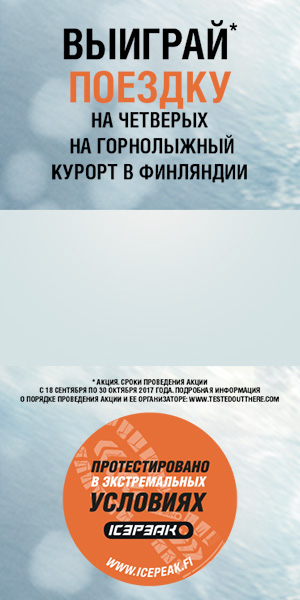
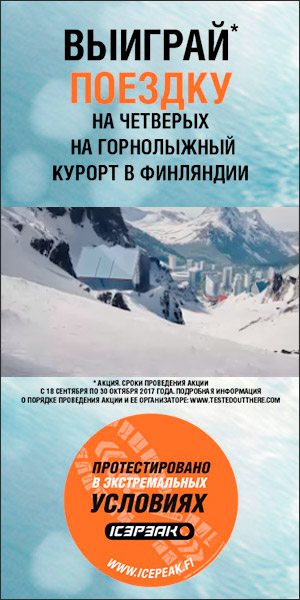
Update

diff --git a/banners/icepeak/gismeteo/300x600/index.html b/banners/icepeak/gismeteo/300x600/index.html
@@ -18,7 +18,6 @@
     width: 300px;
     height: 600px;
     background: url("bg.jpg");
-    border: 1px solid #333;
   }
   #butt{
     position: absolute;
@@ -28,7 +27,8 @@
   #video{
     position: absolute;
     top:207px;
-    width: 298px;
+    left: 0px;
+    width: 300px;
   }
 
   #bPlay {
